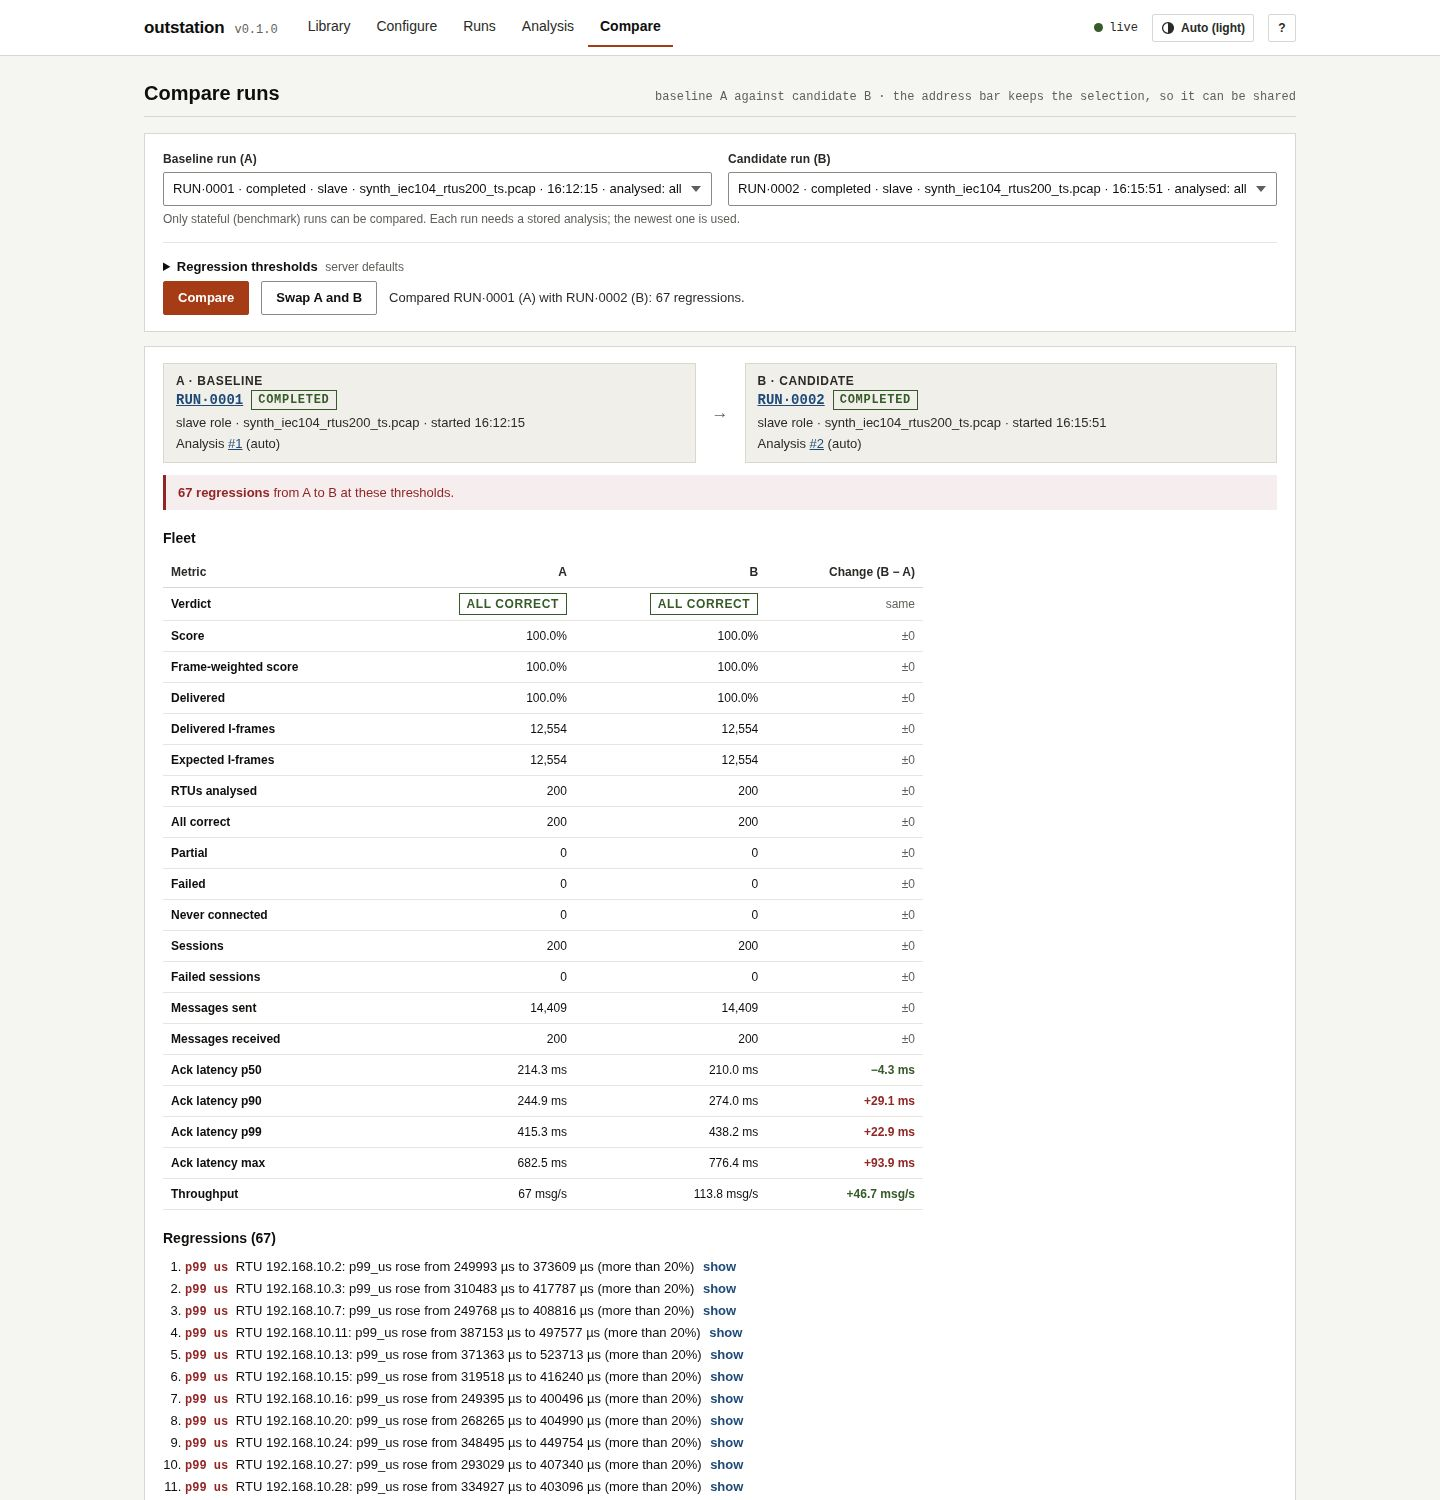
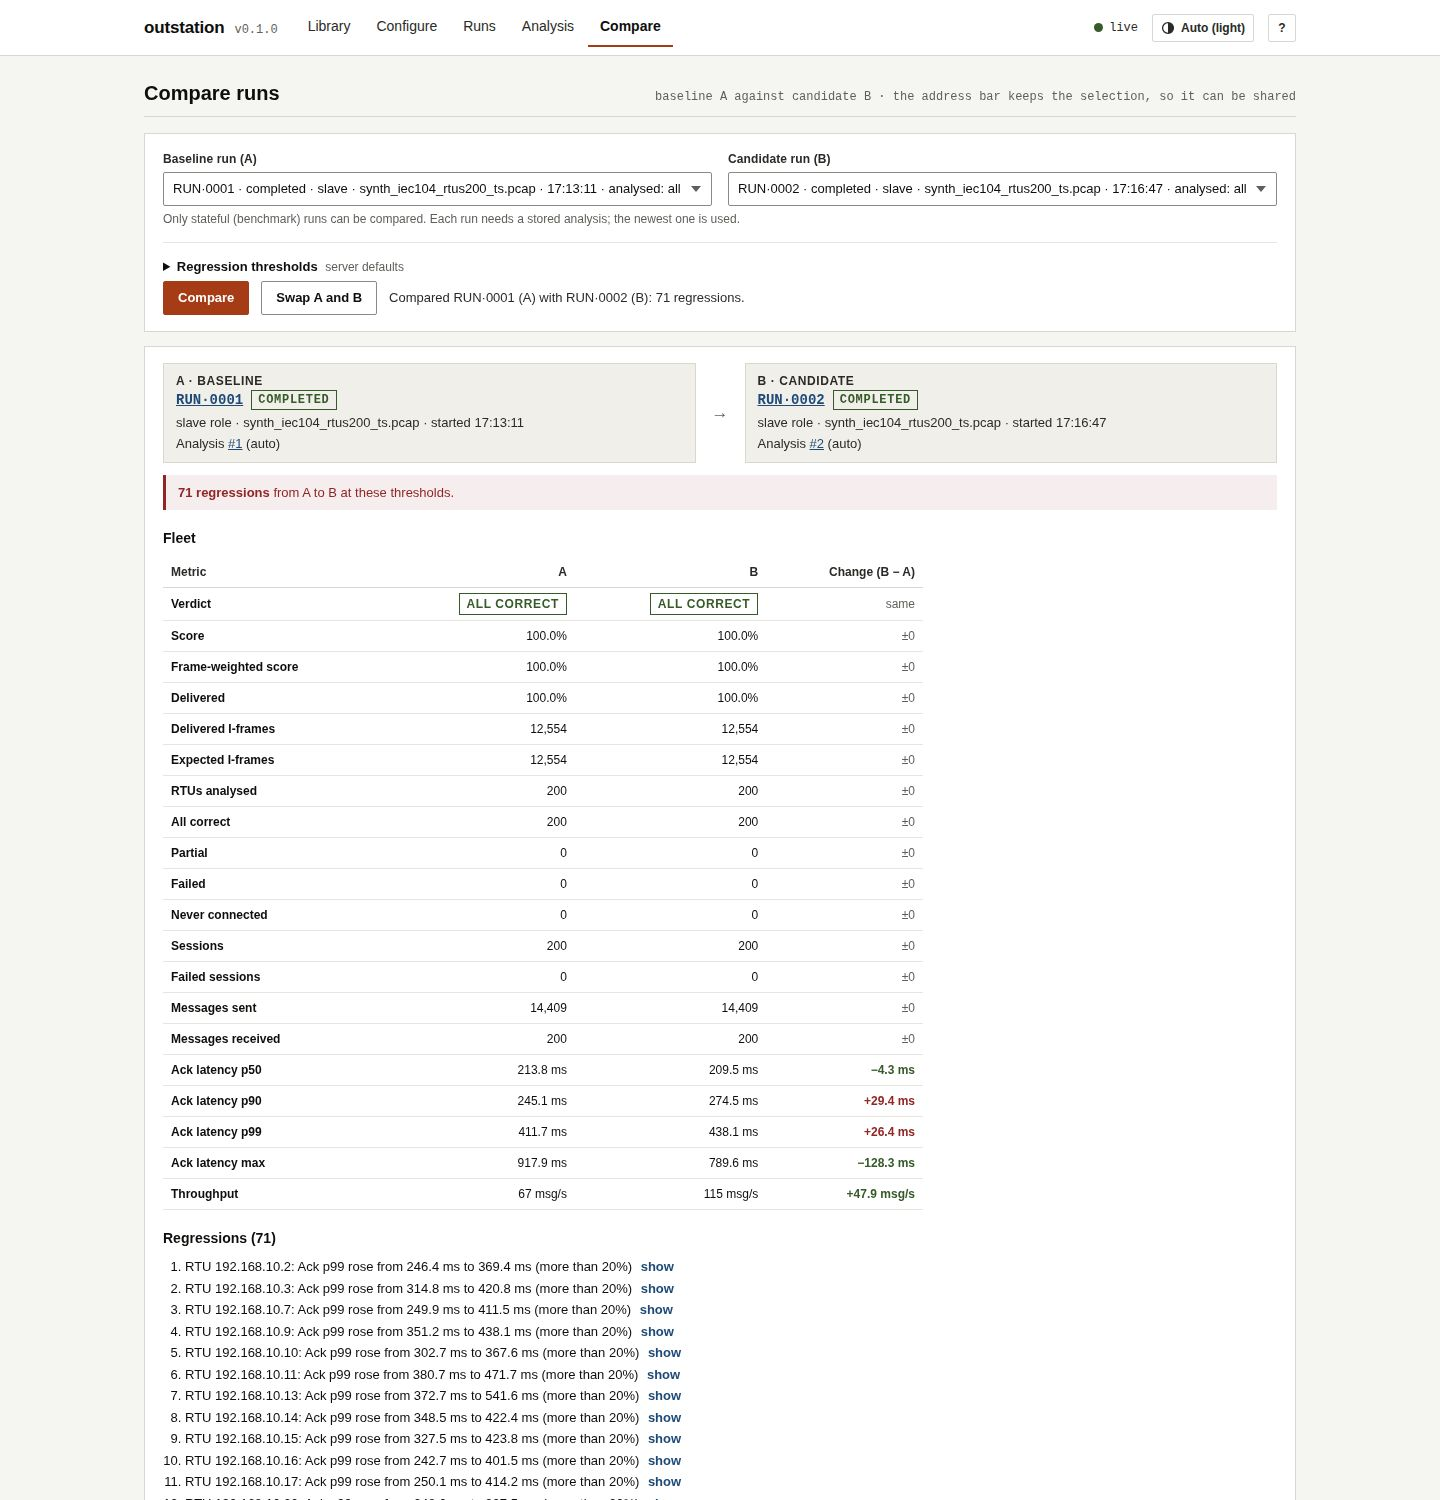
T20b: README images from a real netns run, with live ack latency
scripts/netns-screenshots.sh (namespaces ostest-t20b-shots-*, real
runs A/B/C, all auto-analysed all_correct). ui-runs-live.jpg now shows
the live strip with ack latency p50 / p99 (217.1 / 500.7 ms over 7,279
acks, 45 s into the 200-RTU slave run at original timing), ui-runs.jpg
the run details in ms, ui-compare.jpg the regressions as "RTU ...: Ack
p99 rose from 246.4 ms to 369.4 ms". Library, Configure and Analysis
rendered byte-identical. The README's metrics bullet mentions the live
percentiles.

Claude-Session: https://claude.ai/code/session_01DiuWC3t2VBuN6PSrAVqgy3

Changed region(s): [[0.125, 0.828, 0.5312, 1.0], [0.5938, 0.7667, 0.625, 0.7973], [0.4375, 0.1227, 0.4688, 0.1533]]

diff --git a/README.md b/README.md
@@ -47,7 +47,7 @@ Most pcap replay tools treat a capture as bytes to retransmit. outstation treats
 - **Built-in fidelity analysis.** After a run the analyzer compares the run's own capture against the source pcap endpoint by endpoint: delivered vs expected frames aligned by content, byte-identical counts, time-tag drift, pacing drift, a GI/CI compliance audit and a verdict per RTU and for the fleet. Runs are analysed automatically and can be compared run against run.
 - **Timing-preserving pacing.** Original-timing pacing sends each I-frame at its captured offset (scaled by a speed factor), so the shape of the telemetry feed survives: the pauses, the bursts, the outliers. As-fast-as-possible pacing is there for throughput tests.
 - **Fault injection.** Withhold acks, drop, duplicate or delay I-frames, corrupt N(S), go silent on TESTFR, send STOPDT, malformed APDUs or an RST at a chosen time or frame, and see how the peer reacts.
-- **Benchmark metrics.** Per-session send→ack latency (p50/p90/p99/max), window stalls, throughput and byte counts, plus how fast the replayed RTUs answered the master's commands.
+- **Benchmark metrics.** Per-session send→ack latency (p50/p90/p99/max; p50/p99 also live on the Runs page while a run goes), window stalls, throughput and byte counts, plus how fast the replayed RTUs answered the master's commands.
 
 ## How it works
 
